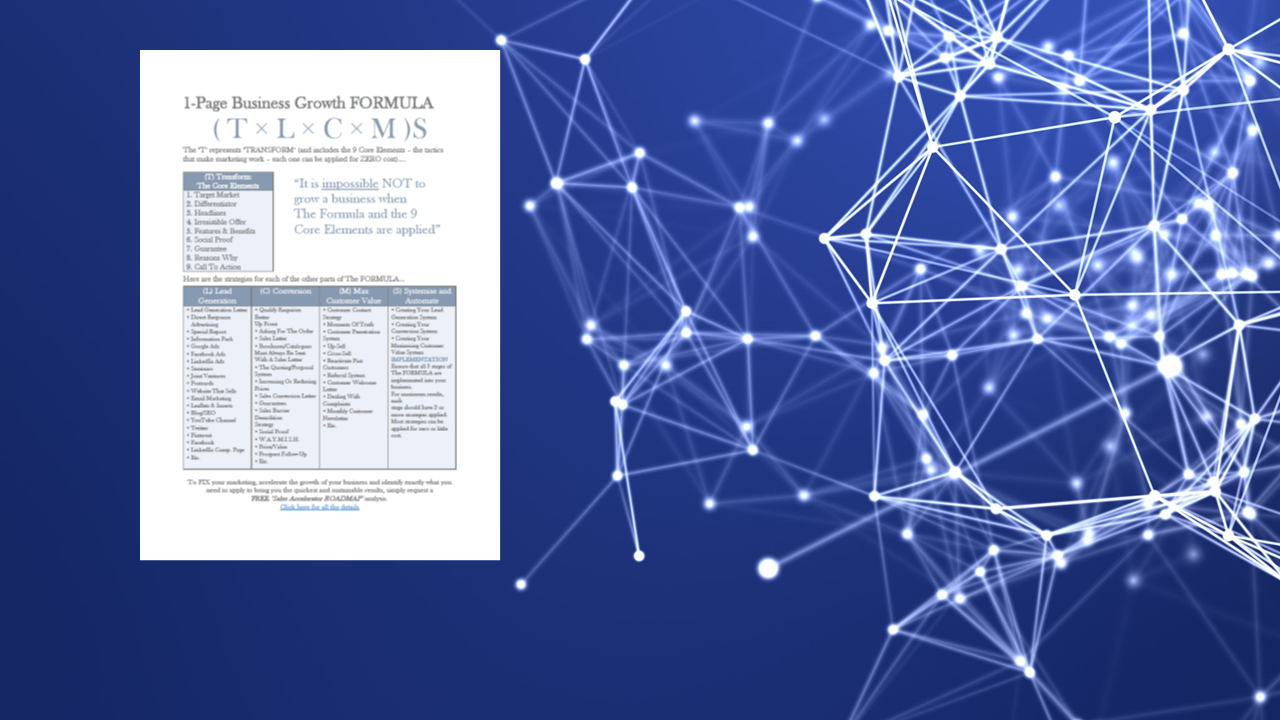
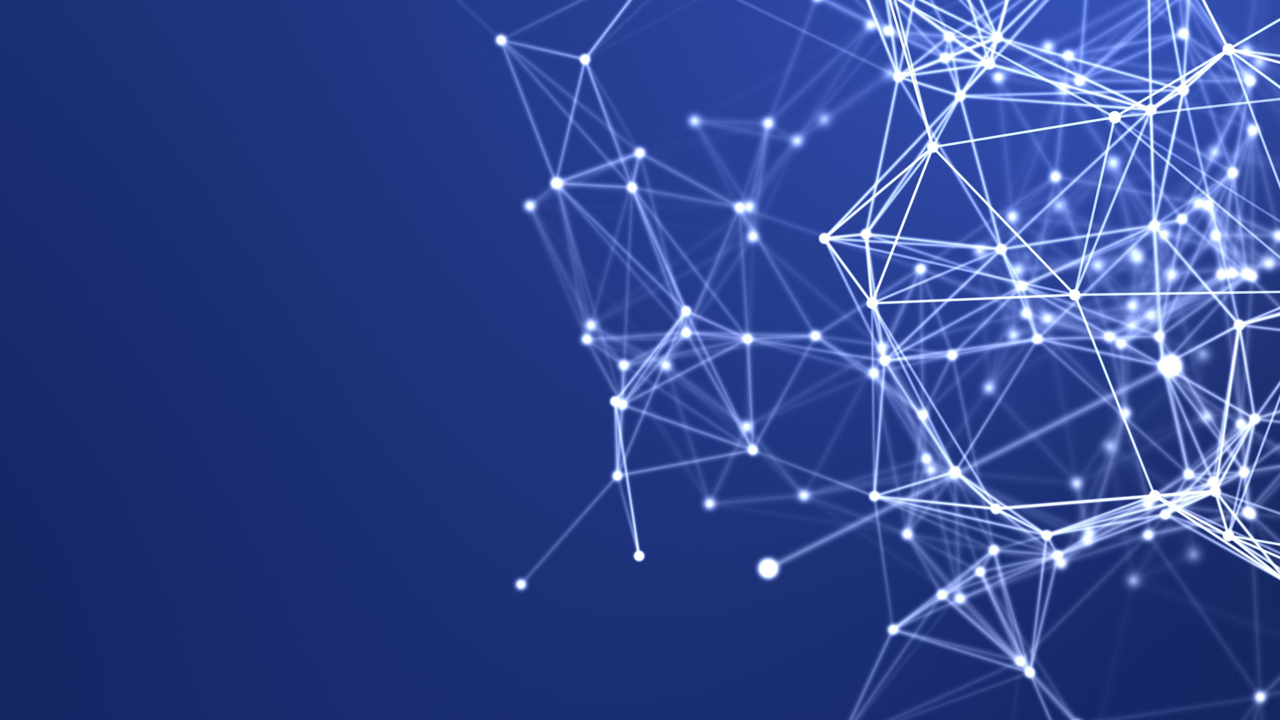
formula page for compress

Changed region(s): [[0.0938, 0.0611, 0.4062, 0.7944]]

diff --git a/pages/Formula-landing.md b/pages/Formula-landing.md
@@ -125,10 +125,10 @@ body {
 <body >
 	{% include _navigation.html %}
 
-<div class="panel radius" style="background-image: url('/images/onepagebackground.png'); background-repeat: repeat; background-attachment: fixed;  background-size: 100% 100%; ">
+<div class="panel radius" style="background-image: url('/images/onepagebackground.png'); background-repeat: fullpage; background-attachment: fixed;  background-size: 100% 100%; ">
     <div class="row"> <!--display two columns-->
         <div class="column-first left" style="background-color:none;">
-        <!-- Empty left column-->
+        <img src="{{ site.url }}{{ site.baseurl }}/images/onepageblur.png" alt="">
         </div> <!-- end column left-->
         <div class="column-first right" style="background: rgba(255, 255, 255, 0.6);  text-align: center">
           <h2 color="white">1-Page BUSINESS GROWTH FORMULA</h2><br>
